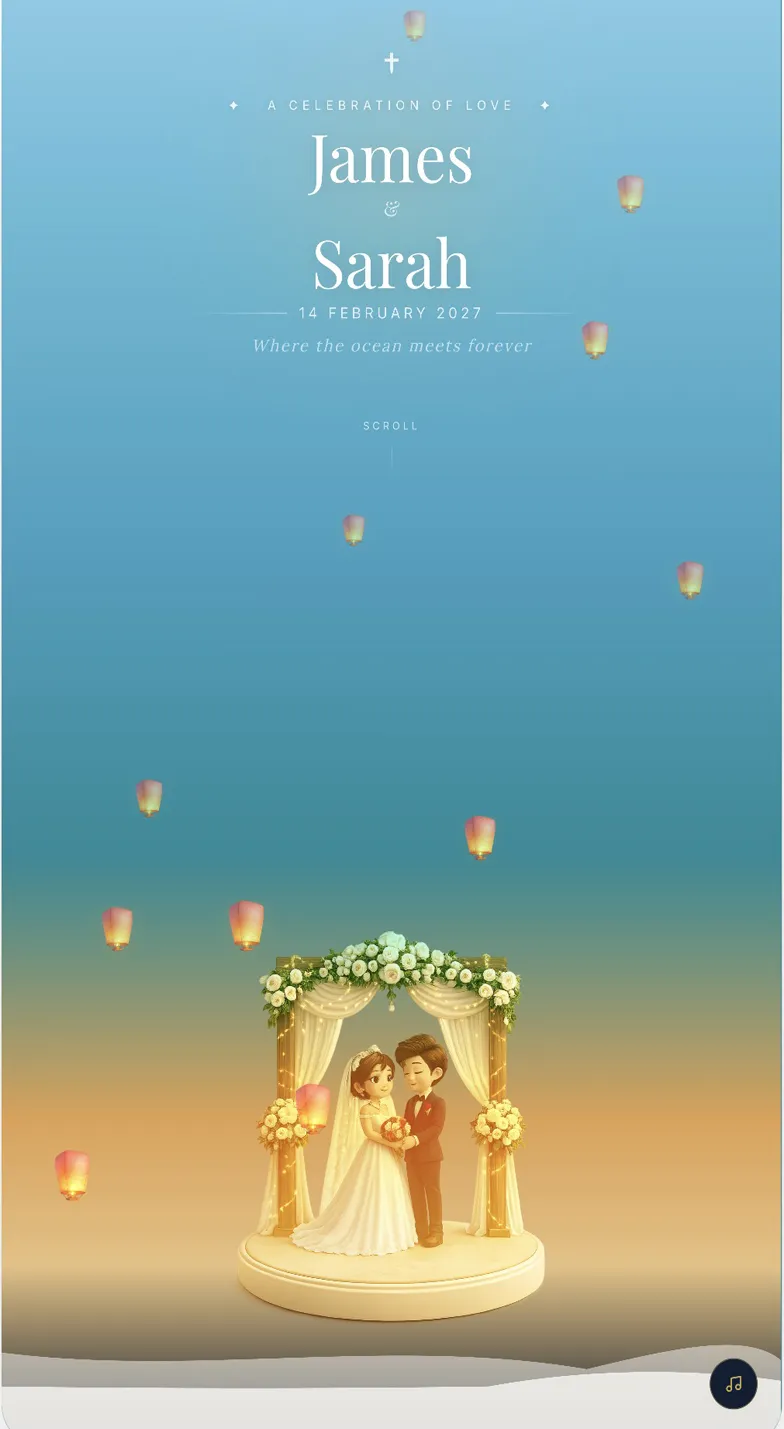
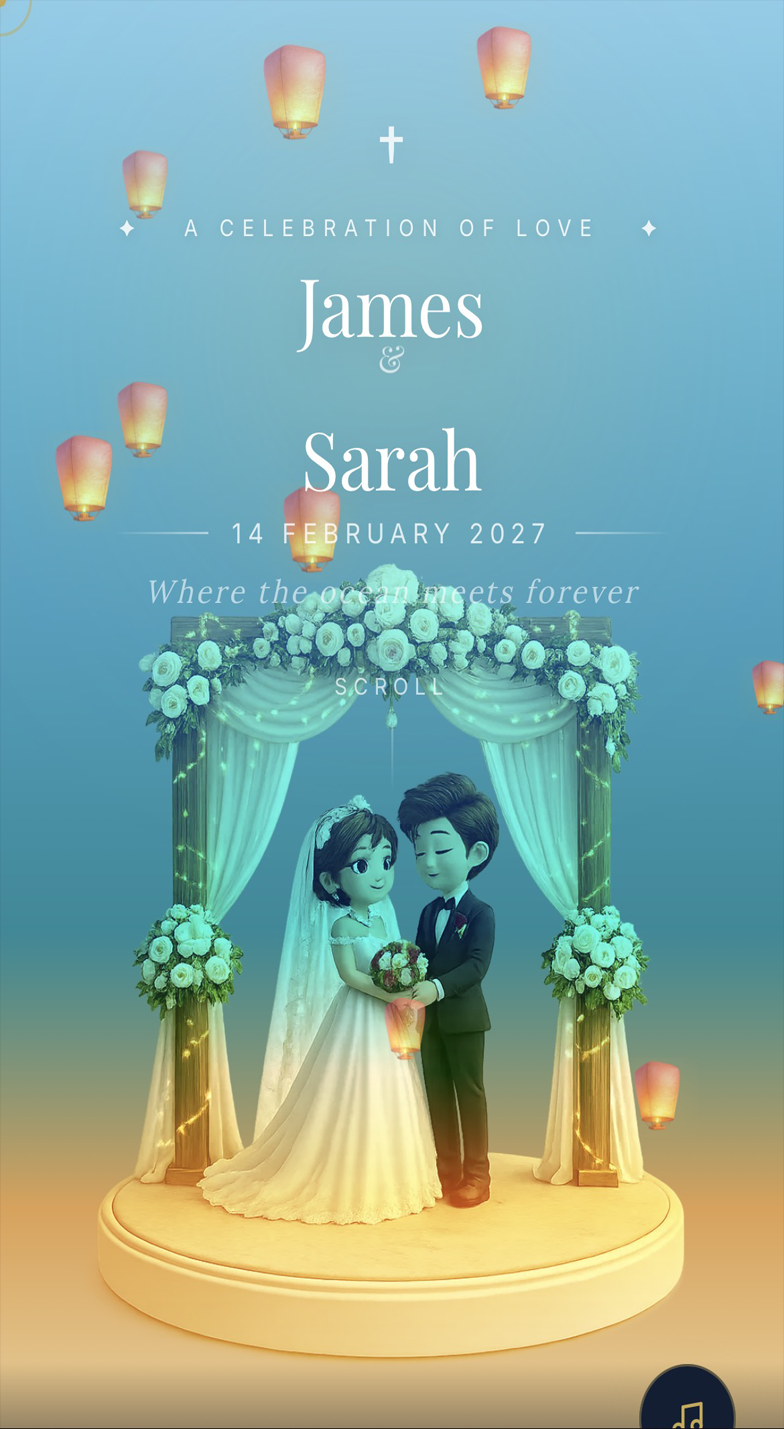
fix: restore phone mockup frame, fix carousel PNGs to WebP
- Restored border, notch bar, rounded corners on template cards
- Fixed typo tempalte3.png, converted remaining carousel PNGs to WebP
- All 9 carousel + card images now WebP

diff --git a/components/templates/TemplateCard.tsx b/components/templates/TemplateCard.tsx
@@ -112,8 +112,9 @@ export default function TemplateCard({ template: t }: { template: Template }) {
         className="flex flex-col items-center">
 
         <div className="group relative w-full max-w-[260px] mx-auto">
-          <a href={`/preview/${t.id}`} className="block xl:pointer-events-none rounded-xl overflow-hidden shadow-2xl relative"
+          <a href={`/preview/${t.id}`} className="block xl:pointer-events-none rounded-[32px] overflow-hidden border-[5px] border-gray-800 shadow-2xl relative"
             style={{ aspectRatio: '9/16', background: t.color }}>
+            <div className="absolute top-0 left-1/2 -translate-x-1/2 w-24 h-5 rounded-b-xl z-20" style={{ background: '#1a1a1a' }} />
             <img src={`/templates/${t.id}.webp`} alt={t.name}
               className="absolute inset-0 w-full h-full object-cover object-top" loading="lazy" />
           </a>
